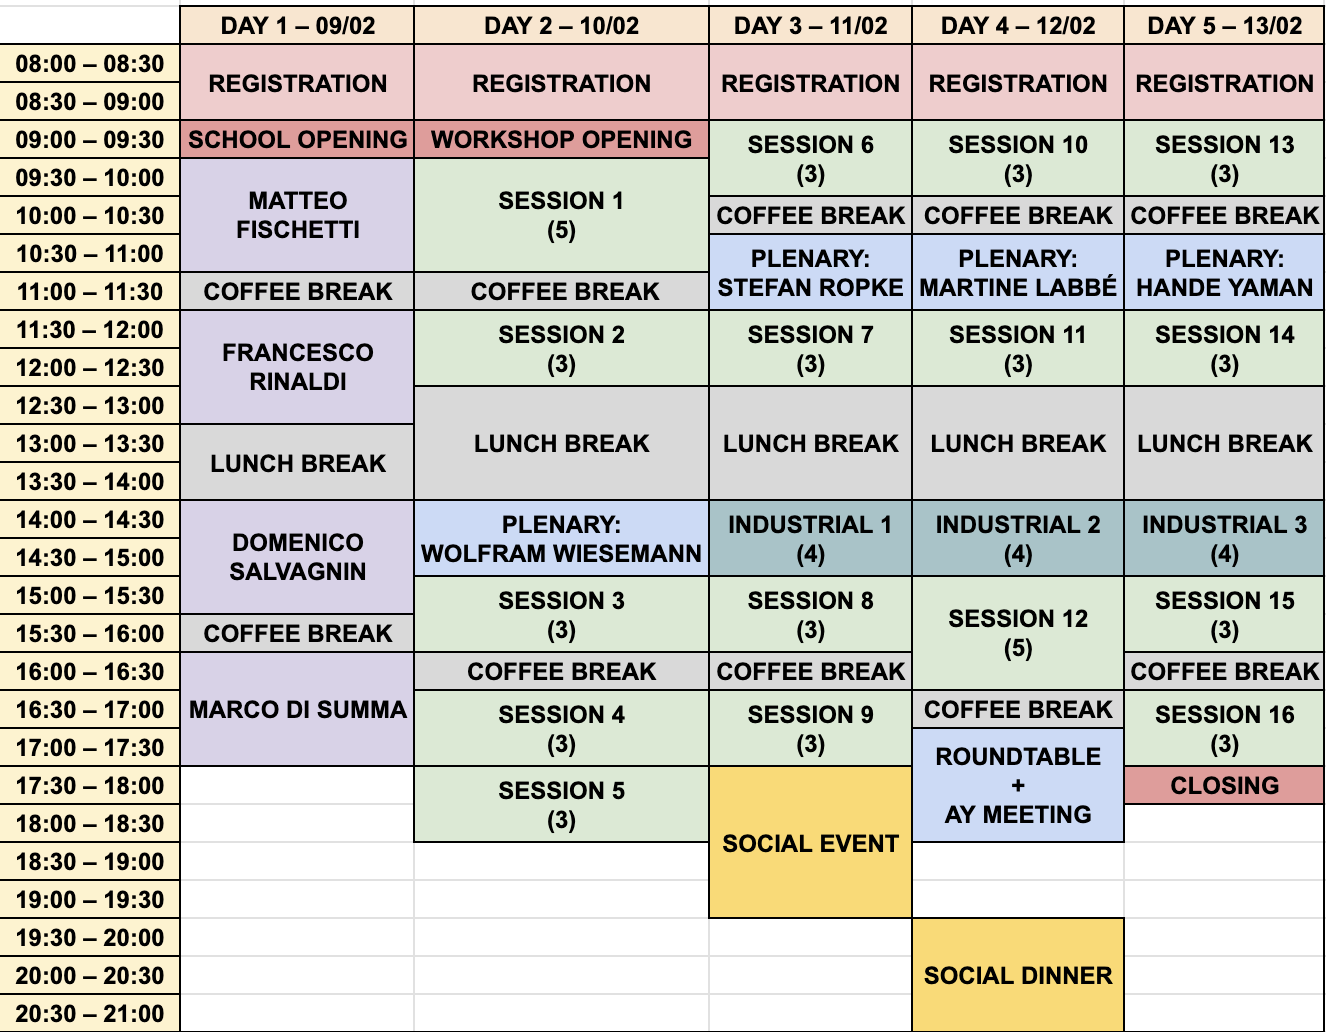
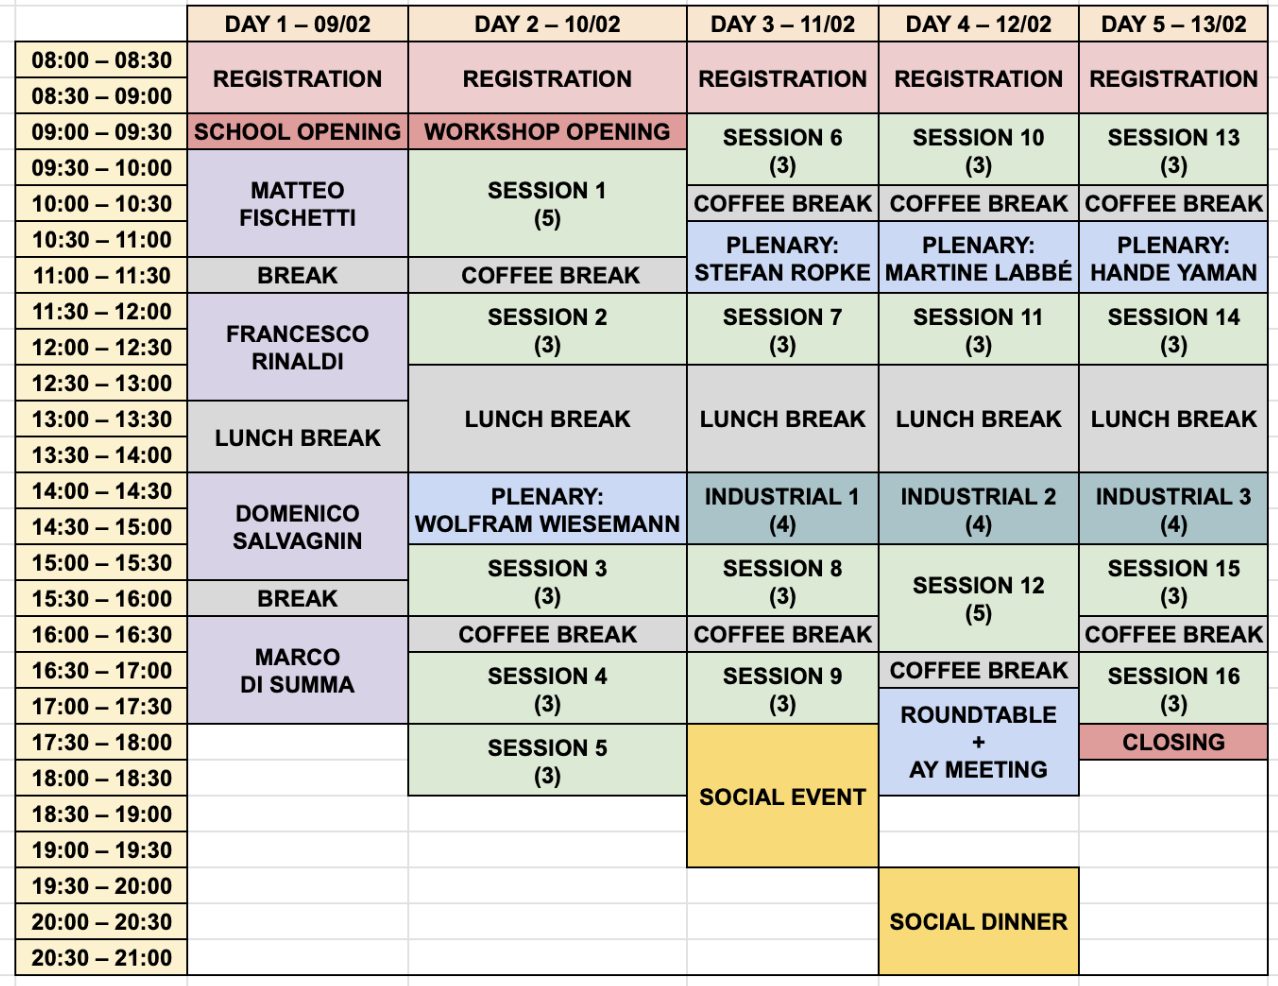
added other sponsors and updated provisional programme

diff --git a/_pages/info.md b/_pages/info.md
@@ -27,7 +27,9 @@ We invite all AIROYoung members, Ph.D. students, and early-stage Researchers (Ph
 
 ## Accommodation grants
 
-Thanks to the financial support offered by AIRO and our sponsors, we are able to provide several **accommodation grants** to cover accommodation expenses for the entire event (i.e., hotel check-in on February 8, Sunday afternoon, and check-out on February 13, Friday morning). Grants will be awarded on a first-come, first-served basis to participants who indicate their interest in applying for the grant during the registration process and are AIRO members. Note that you are already an AIRO member if you have registered for The International Conference on Optimization and Decision Science (ODS) 2025 or if you have paid the AIRO registration fee for the year 2026. Otherwise, to become an AIRO member, please follow the instructions [here](https://www.airo.org/en/become-an-airo-member/).
+Thanks to the financial support offered by AIRO and our sponsors, we are able to provide several **accommodation grants** to cover accommodation expenses for the entire event (i.e., hotel check-in on February 8, Sunday afternoon, and check-out on February 13, Friday morning).
+- Grants will be awarded on a first-come, first-served basis to participants who indicate their interest in applying for the grant during the registration process and are (willing to become) AIRO members.
+- Note that you are already an AIRO member if you have registered for The International Conference on Optimization and Decision Science (ODS) 2025 or if you have paid the AIRO registration fee for the year 2026. Otherwise, to become an AIRO member, please follow the instructions [here](https://www.airo.org/en/become-an-airo-member/).
 
 Grants availability:
 

diff --git a/_pages/programme.md b/_pages/programme.md
@@ -68,6 +68,10 @@ Ph.D. School, more info in [Ph.D. School page](/phd-school/).
 
 ## Schedule (Google Sheets)
 
-<div class="responsive-sheet" id="schedule-iframe">
+<!-- <div class="responsive-sheet" id="schedule-iframe">
 <iframe src="https://docs.google.com/spreadsheets/d/e/2PACX-1vSLH4jxQ7kXRUWs6P7MOpsKAzPVUuQnnn1Dz8EeX3pyeuerTyubCMrNefQcArwxa73WhHFxJzLpJqXg/pubhtml?gid=0&amp;single=true&amp;widget=true&amp;headers=false"></iframe>
+</div> -->
+<div class="responsive-sheet" id="schedule-iframe">
+<iframe src="https://docs.google.com/spreadsheets/d/11rCem4GCZwuzgXzM-G9Ge8iaQCFSxY2dn1XnUhuDFbY/pubhtml?gid=0&amp;single=true&amp;widget=true&amp;headers=false"></iframe>
 </div>
+
